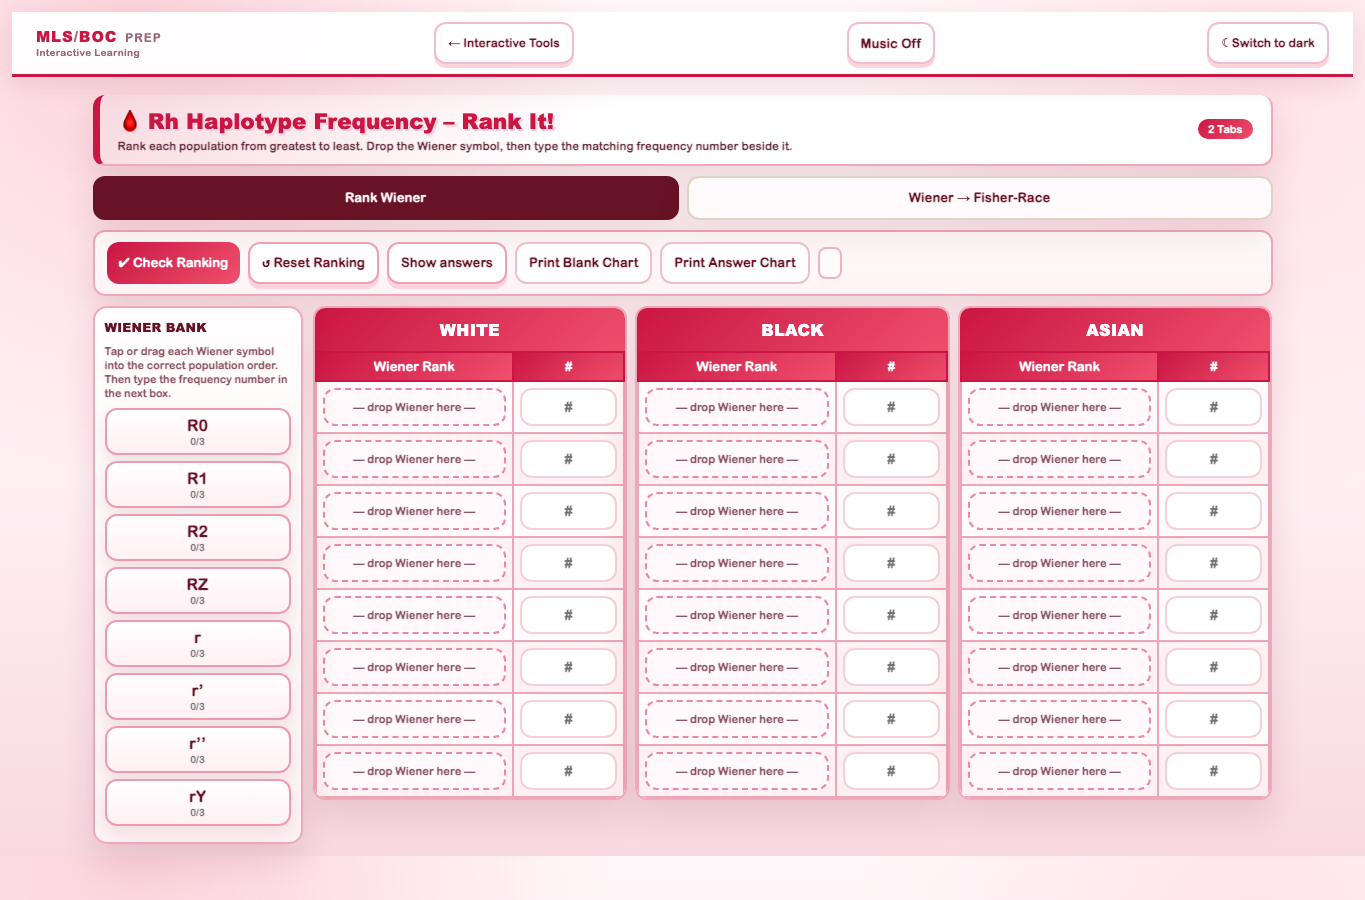
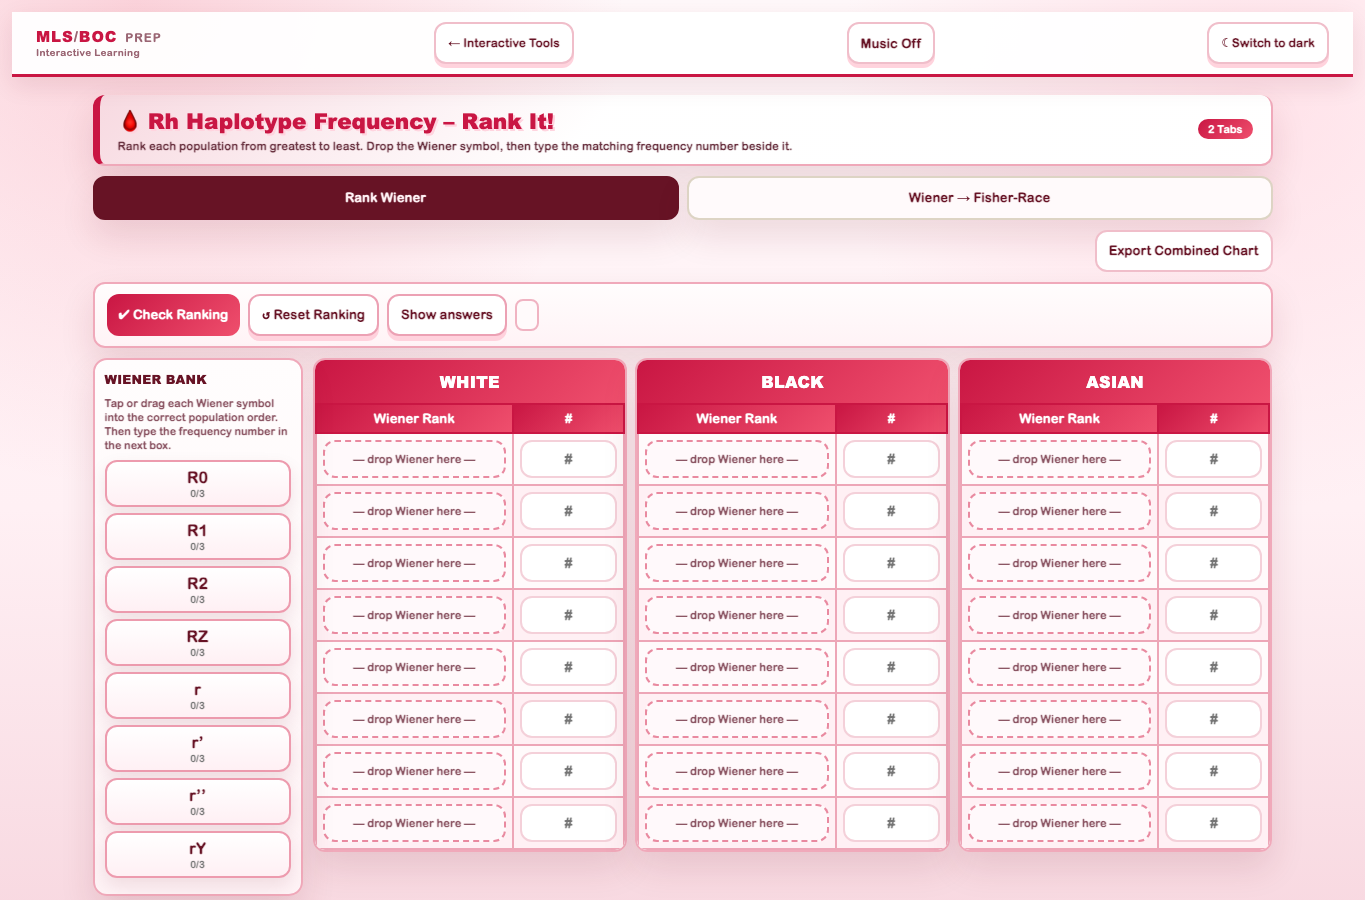
Compact Rh export chart

Changed region(s): [[0.0615, 0.2489, 0.9538, 0.8089], [0.0615, 0.84, 0.9538, 1.0]]

diff --git a/Rh_Haplotype_Frequency.html b/Rh_Haplotype_Frequency.html
@@ -601,7 +601,35 @@
   }
 
   body.rh-haplotype-game .rh-translation-layout{
-    grid-template-columns:minmax(0,1fr) 220px;
+    grid-template-columns:1fr;
+  }
+
+  body.rh-haplotype-game .translation-landscape{
+    table-layout:fixed;
+    min-width:760px;
+  }
+
+  body.rh-haplotype-game .translation-landscape th,
+  body.rh-haplotype-game .translation-landscape td{
+    width:12.5%;
+  }
+
+  body.rh-haplotype-game .translation-landscape .dropzone{
+    min-height:58px;
+  }
+
+  body.rh-haplotype-game .translation-bank{
+    position:static;
+  }
+
+  body.rh-haplotype-game .translation-board{
+    overflow-x:auto;
+  }
+
+  body.rh-haplotype-game #translateFisherWrap{
+    display:grid;
+    grid-template-columns:repeat(8,minmax(72px,1fr));
+    gap:8px;
   }
 
   body.rh-haplotype-game .tables{
@@ -668,6 +696,13 @@
     color:var(--bb-deep, #641525) !important;
   }
 
+  body.rh-haplotype-game .rh-export-bar{
+    max-width:1180px;
+    margin:0 auto 10px;
+    display:flex;
+    justify-content:flex-end;
+  }
+
   .rh-print-area{
     display:none;
   }
@@ -689,6 +724,10 @@
     body.rh-haplotype-game .bank{
       position:static;
     }
+
+    body.rh-haplotype-game #translateFisherWrap{
+      grid-template-columns:repeat(2,minmax(0,1fr));
+    }
   }
 
   @media print{
@@ -706,11 +745,12 @@
       display:block !important;
       color:#000 !important;
       font-family:'Nunito', Arial, sans-serif;
-      padding:0.25in;
+      padding:0;
     }
 
     .rh-print-sheet{
-      page-break-after:always;
+      page-break-after:auto;
+      page-break-inside:avoid;
     }
 
     .rh-print-sheet:last-child{
@@ -720,22 +760,29 @@
     .rh-print-title{
       font-size:18pt;
       font-weight:900;
-      margin:0 0 6pt;
+      margin:0 0 3pt;
       text-transform:uppercase;
       letter-spacing:1pt;
+      color:#000 !important;
     }
 
     .rh-print-note{
-      font-size:9pt;
+      font-size:8.5pt;
       font-weight:800;
-      margin:0 0 8pt;
+      margin:0 0 6pt;
+      color:#000 !important;
+    }
+
+    .rh-print-section{
+      margin-top:7pt;
     }
 
     .rh-print-table{
       width:100%;
       border-collapse:collapse;
       table-layout:fixed;
-      font-size:11pt;
+      font-size:10pt;
+      color:#000 !important;
     }
 
     .rh-print-table th,
@@ -743,24 +790,40 @@
       border:1.5pt solid #000 !important;
       background:#fff !important;
       color:#000 !important;
-      padding:5pt;
+      padding:2.5pt 4pt;
       text-align:center;
       vertical-align:middle;
-      min-height:24pt;
+      height:18pt;
+    }
+
+    .rh-print-subtitle{
+      font-size:11.5pt;
+      margin:0 0 4pt;
+      font-weight:900;
+      text-transform:uppercase;
+      letter-spacing:.5pt;
+      color:#000 !important;
     }
 
     .rh-print-table th{
       font-weight:900;
       text-transform:uppercase;
+      color:#000 !important;
     }
 
     .rh-print-blank{
-      height:24pt;
+      height:13pt;
+    }
+
+    .rh-translation-print th,
+    .rh-translation-print td{
+      width:12.5%;
+      height:22pt;
     }
 
     @page{
       size:letter landscape;
-      margin:0.3in;
+      margin:0.5in;
     }
   }
 </style>
@@ -791,13 +854,15 @@
     <button type="button" class="rh-mode-tab" data-rh-tab="translate">Wiener → Fisher-Race</button>
   </div>
 
+  <div class="rh-export-bar">
+    <button id="rhExportCombinedBtn" class="printBtn">Export Combined Chart</button>
+  </div>
+
   <section class="rh-tab-panel active" data-rh-panel="rank">
     <div class="section-controls">
       <button id="rhCheckBtn" class="checkBtn">✔ Check Ranking</button>
       <button id="rhResetBtn" class="resetBtn">↺ Reset Ranking</button>
       <button id="rhShowAnswersBtn" class="resetBtn">Show answers</button>
-      <button id="rhPrintBlankBtn" class="printBtn">Print Blank Chart</button>
-      <button id="rhPrintAnswersBtn" class="printBtn">Print Answer Chart</button>
       <div id="rhMsg" class="score"></div>
     </div>
 
@@ -817,26 +882,18 @@
       <button id="translateCheckBtn" class="checkBtn">✔ Check Translation</button>
       <button id="translateResetBtn" class="resetBtn">↺ Reset Translation</button>
       <button id="translateShowAnswersBtn" class="resetBtn">Show answers</button>
-      <button id="translatePrintBlankBtn" class="printBtn">Print Blank Chart</button>
-      <button id="translatePrintAnswersBtn" class="printBtn">Print Answer Chart</button>
       <div id="translateMsg" class="score"></div>
     </div>
 
     <div class="layout rh-translation-layout">
       <div class="translation-board">
         <div class="section-title">Wiener → Fisher-Race</div>
-        <table>
-          <thead>
-            <tr>
-              <th>Wiener</th>
-              <th>Fisher-Race Match</th>
-            </tr>
-          </thead>
+        <table class="translation-landscape">
           <tbody id="translationBody"></tbody>
         </table>
       </div>
 
-      <div class="bank">
+      <div class="bank translation-bank">
         <h2>Fisher-Race Bank</h2>
         <div class="hint">Tap or drag one Fisher-Race symbol to match each Wiener symbol.</div>
         <div id="translateFisherWrap"></div>
@@ -1215,19 +1272,20 @@ function buildTranslationTable(){
   const body = document.getElementById("translationBody");
   body.innerHTML = "";
 
+  const headerRow = document.createElement("tr");
+  const matchRow = document.createElement("tr");
+
   WEINERS.forEach(weiner => {
-    const tr = document.createElement("tr");
-    const fixedTd = document.createElement("td");
+    const fixedTh = document.createElement("th");
     const matchTd = document.createElement("td");
-    const fixed = document.createElement("div");
-    fixed.className = "fixed-symbol";
-    fixed.textContent = weiner;
-    fixedTd.appendChild(fixed);
+    fixedTh.textContent = weiner;
     matchTd.appendChild(makeTranslationDropzone(weiner));
-    tr.appendChild(fixedTd);
-    tr.appendChild(matchTd);
-    body.appendChild(tr);
+    headerRow.appendChild(fixedTh);
+    matchRow.appendChild(matchTd);
   });
+
+  body.appendChild(headerRow);
+  body.appendChild(matchRow);
 }
 
 function placeRankItem(group, row, col, item, fromKey){
@@ -1595,63 +1653,71 @@ function blankCell(){
   return `<div class="rh-print-blank">&nbsp;</div>`;
 }
 
-function buildRankPrintSheet(withAnswers){
+function printCell(value){
+  const normalized = String(value || "").trim();
+  return normalized ? escapeHtml(normalized) : blankCell();
+}
+
+function currentRankPrintValue(group, rank, col){
+  if(col === "weiner"){
+    const current = getState(slotKey(group, rank, "weiner"));
+    return current ? current.value : "";
+  }
+
+  const input = document.getElementById(rankFrequencyInputId(group, rank));
+  return input ? input.value : "";
+}
+
+function currentTranslationPrintValue(weiner){
+  const current = getTranslationState(translationKey(weiner));
+  return current ? current.value : "";
+}
+
+function buildCombinedPrintSheet(){
   const rows = Array.from({ length: 8 }, (_, index) => {
     const rank = index + 1;
     const cells = GROUPS.map(group => {
-      const weiner = ANSWERS[group.key].weiner[index];
-      const frequency = rankFrequencyAnswer(group.key, rank);
       return `
-        <td>${withAnswers ? escapeHtml(weiner) : blankCell()}</td>
-        <td>${withAnswers ? escapeHtml(frequency) : blankCell()}</td>
+        <td>${printCell(currentRankPrintValue(group.key, rank, "weiner"))}</td>
+        <td>${printCell(currentRankPrintValue(group.key, rank, "frequency"))}</td>
       `;
     }).join("");
     return `<tr><td>${rank}</td>${cells}</tr>`;
   }).join("");
 
+  const translationHeaders = WEINERS.map(weiner => `<th>${escapeHtml(weiner)}</th>`).join("");
+  const translationCells = WEINERS.map(weiner => `<td>${printCell(currentTranslationPrintValue(weiner))}</td>`).join("");
+
   return `
     <section class="rh-print-sheet">
-      <h1 class="rh-print-title">Rh Haplotype Rank - ${withAnswers ? "Answer Chart" : "Blank Chart"}</h1>
-      <p class="rh-print-note">Top row is greatest frequency. Bottom row is least frequency. Use 0.01 for very rare values.</p>
-      <table class="rh-print-table">
-        <thead>
-          <tr><th rowspan="2">Rank</th><th colspan="2">White</th><th colspan="2">Black</th><th colspan="2">Asian</th></tr>
-          <tr><th>Wiener</th><th>#</th><th>Wiener</th><th>#</th><th>Wiener</th><th>#</th></tr>
-        </thead>
-        <tbody>${rows}</tbody>
-      </table>
+      <h1 class="rh-print-title">Rh Haplotype Combined Chart</h1>
+      <p class="rh-print-note">Top rank row is greatest frequency. Bottom rank row is least frequency. Use 0.01 for very rare values.</p>
+      <div class="rh-print-section">
+        <h2 class="rh-print-subtitle">Rank Wiener + Frequency</h2>
+        <table class="rh-print-table">
+          <thead>
+            <tr><th rowspan="2">Rank</th><th colspan="2">White</th><th colspan="2">Black</th><th colspan="2">Asian</th></tr>
+            <tr><th>Wiener</th><th>#</th><th>Wiener</th><th>#</th><th>Wiener</th><th>#</th></tr>
+          </thead>
+          <tbody>${rows}</tbody>
+        </table>
+      </div>
+      <div class="rh-print-section">
+        <h2 class="rh-print-subtitle">Wiener to Fisher-Race</h2>
+        <table class="rh-print-table rh-translation-print">
+          <tbody>
+            <tr>${translationHeaders}</tr>
+            <tr>${translationCells}</tr>
+          </tbody>
+        </table>
+      </div>
     </section>
   `;
 }
 
-function buildTranslationPrintSheet(withAnswers){
-  const rows = WEINERS.map(weiner => {
-    const answer = withAnswers ? escapeHtml(TRANSLATION_ANSWERS[weiner]) : blankCell();
-    return `<tr><td>${escapeHtml(weiner)}</td><td>${answer}</td></tr>`;
-  }).join("");
-
-  return `
-    <section class="rh-print-sheet">
-      <h1 class="rh-print-title">Wiener to Fisher-Race - ${withAnswers ? "Answer Chart" : "Blank Chart"}</h1>
-      <p class="rh-print-note">Match each Wiener symbol to its Fisher-Race notation.</p>
-      <table class="rh-print-table">
-        <thead>
-          <tr><th>Wiener</th><th>Fisher-Race</th></tr>
-        </thead>
-        <tbody>${rows}</tbody>
-      </table>
-    </section>
-  `;
-}
-
-function printRhSheet(mode, withAnswers){
+function exportCombinedChart(){
   const printArea = document.getElementById("rhPrintArea");
-  const builders = {
-    rank: buildRankPrintSheet,
-    translate: buildTranslationPrintSheet
-  };
-
-  printArea.innerHTML = builders[mode](withAnswers);
+  printArea.innerHTML = buildCombinedPrintSheet();
   printArea.setAttribute("aria-hidden", "false");
   setTimeout(() => window.print(), 50);
 }
@@ -1978,10 +2044,7 @@ document.getElementById("donorResetBtn").addEventListener("click", resetDonor);
 document.getElementById("rhShowAnswersBtn").addEventListener("click", showRhAnswers);
 document.getElementById("translateShowAnswersBtn").addEventListener("click", showTranslationAnswers);
 document.getElementById("donorShowAnswersBtn").addEventListener("click", showDonorAnswers);
-document.getElementById("rhPrintBlankBtn").addEventListener("click", () => printRhSheet("rank", false));
-document.getElementById("rhPrintAnswersBtn").addEventListener("click", () => printRhSheet("rank", true));
-document.getElementById("translatePrintBlankBtn").addEventListener("click", () => printRhSheet("translate", false));
-document.getElementById("translatePrintAnswersBtn").addEventListener("click", () => printRhSheet("translate", true));
+document.getElementById("rhExportCombinedBtn").addEventListener("click", exportCombinedChart);
 
 setupRhTabs();
 buildBanks();

diff --git a/index.html b/index.html
@@ -1240,7 +1240,7 @@ const BUILT_IN_INTERACTIVE_LINKS=[
   {title:'Blood Structures',url:'ABO_Lewis_Structures.html',description:'Build ABH and Lewis/secretor structures',topic:'Blood Bank',icon:'BB',color:'#b22222',preview_url:'assets/interactive-previews/abo_lewis_structures.png?v=20260604-3'},
   {title:'Lewis & Secretor Genes',url:'Lewis_Secretor_Genes.html',description:'Match Le/Se genotypes, secretor status and Lewis phenotype',topic:'Blood Bank',icon:'Le',color:'#b22222',preview_url:'assets/interactive-previews/lewis_secretor_genes.png?v=20260604-3'},
   {title:'Antigen Short Version',url:'BloodGroupSystems_Freq_Final.html',description:'Memorize key antigen frequencies and differences',topic:'Blood Bank',icon:'BB',color:'#b22222',preview_url:'assets/interactive-previews/antigen_short_version.png?v=20260604-3'},
-  {title:'Rh Haplotype Frequency',url:'Rh_Haplotype_Frequency.html',description:'Rank Rh haplotypes by population pattern',topic:'Blood Bank',icon:'BB',color:'#b22222',preview_url:'assets/interactive-previews/rh_haplotype_frequency.png?v=20260605-1'},
+  {title:'Rh Haplotype Frequency',url:'Rh_Haplotype_Frequency.html',description:'Rank Rh haplotypes by population pattern',topic:'Blood Bank',icon:'BB',color:'#b22222',preview_url:'assets/interactive-previews/rh_haplotype_frequency.png?v=20260605-2'},
   {title:'Hematology Case Game',url:'Heme_Case_Game.html',description:'Match morphology clue charts to diagnosis tokens',topic:'Hematology',icon:'HE',color:'#b22222'},
   {title:'Micro Case Room',url:'Micro_Case_Room.html',description:'Timed placeholder microbiology escape-room cases by body site',topic:'Microbiology',icon:'MC',color:'#2fa66a',preview_url:'assets/interactive-previews/micro_case_room.svg'},
   {title:'Reagent Strip Match',url:'UA_Reagent_Strip_Match.html',description:'Match reagent strip chemistry, false results and significance',topic:'Urinalysis',icon:'RS',color:'#c8a800',preview_url:'assets/interactive-previews/ua_reagent_strip_match.png'},